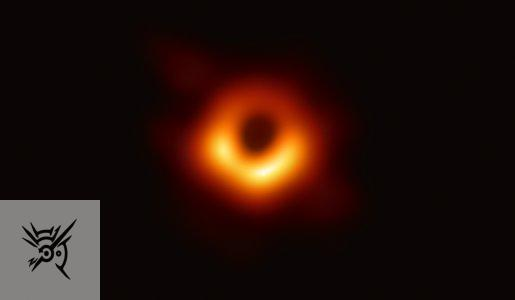
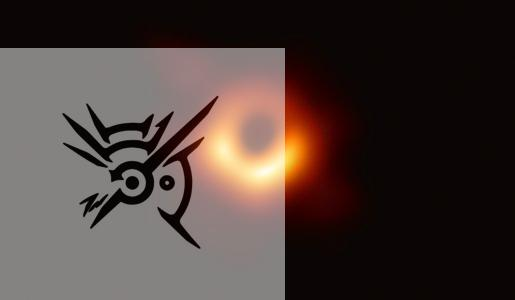
checked some other image types

diff --git a/watermark.py b/watermark.py
@@ -34,12 +34,12 @@ class Watermark:
         # Check if need to resize
         # Check for resize by pixels
         if self.size and not self.size_ptc:
-            print("Resize by pixels")
+            print("Resize watermark by pixels")
             watermark = watermark.resize(self.size)
 
         # Check for resize by percantege
         elif not self.size and self.size_ptc:
-            print("Resize by percantege")
+            print("Resize watermark by percantege")
 
             width, length = watermark.size
             new_width = int(width * (self.size_ptc/100))
@@ -49,7 +49,7 @@ class Watermark:
 
         # Check if there no need to resize
         elif not self.size and not self.size_ptc:
-            print("Do not resize")
+            print("Do not resize watermark")
 
         else:
             print("Wrong input!")
@@ -60,6 +60,9 @@ class Watermark:
             print("Change transparent level")
             new_transparent_level = int(255*(self.transparent_level / 100))
             watermark.putalpha(new_transparent_level)
+        else:
+            print("Do not change transparent level.")
+            watermark.putalpha(255)
 
         return watermark
 
@@ -93,7 +96,7 @@ class Watermark:
 
 
     def run(self):
-        print("Runing")
+        print("Running")
         # Create copy of files
         print("Creating copy of files...")
         copytree(self.target_folder, self.result_folder)
@@ -101,8 +104,6 @@ class Watermark:
 
         # Get all file paths
         path_list = self.read_path(self.result_folder)
-        for path in path_list:
-            print(path)
 
         # Add watermark
         watermark = self.load_watermark(self.watermark_path)
@@ -115,23 +116,28 @@ class Watermark:
             print("Result folder already exists")"""
         
         for image_path in path_list:
-            # add watermark to each image
-            im = Image.open(image_path)
-            
-            result_im = im.copy()
-            
-            # Calculate position of watermark on each image
-            x_size, y_size = watermark.size
-            x_pos, y_pos = self.calculate_postion([x_size, y_size], result_im)
-            result_im.paste(watermark, (x_pos,y_pos), watermark)
+            try:
+                # add watermark to each image
+                im = Image.open(image_path)
+                
+                result_im = im.copy()
+                
+                # Calculate position of watermark on each image
+                x_size, y_size = watermark.size
+                x_pos, y_pos = self.calculate_postion([x_size, y_size], result_im)
+                result_im.paste(watermark, (x_pos,y_pos), watermark)
 
-            # Create new path for image with watermark
-            result_path = os.path.join(self.result_folder, os.path.basename(image_path))
-            result_im.save(image_path)
+                # Create new path for image with watermark
+                result_path = os.path.join(self.result_folder, os.path.basename(image_path))
+                result_im.save(image_path)
+                print(f"Added watermark to \"{os.path.basename(image_path)}\"")
+            except:
+                print(f"Unable to add watermark to \"{os.path.basename(image_path)}\"")
+                
 
 def main():
     mark = Watermark(watermark_path=r"C:\Users\Misha\Projects\watermark\sign.jpg",
-            target_folder=r"C:\Users\Misha\Projects\watermark\target_images", size=[100,100], transparent_level=50)
+            target_folder=r"C:\Users\Misha\Projects\watermark\target_images", size_ptc=50, transparent_level=50)
     mark.result_folder=r"C:\Users\Misha\Projects\watermark\result"
     mark.run()
 
